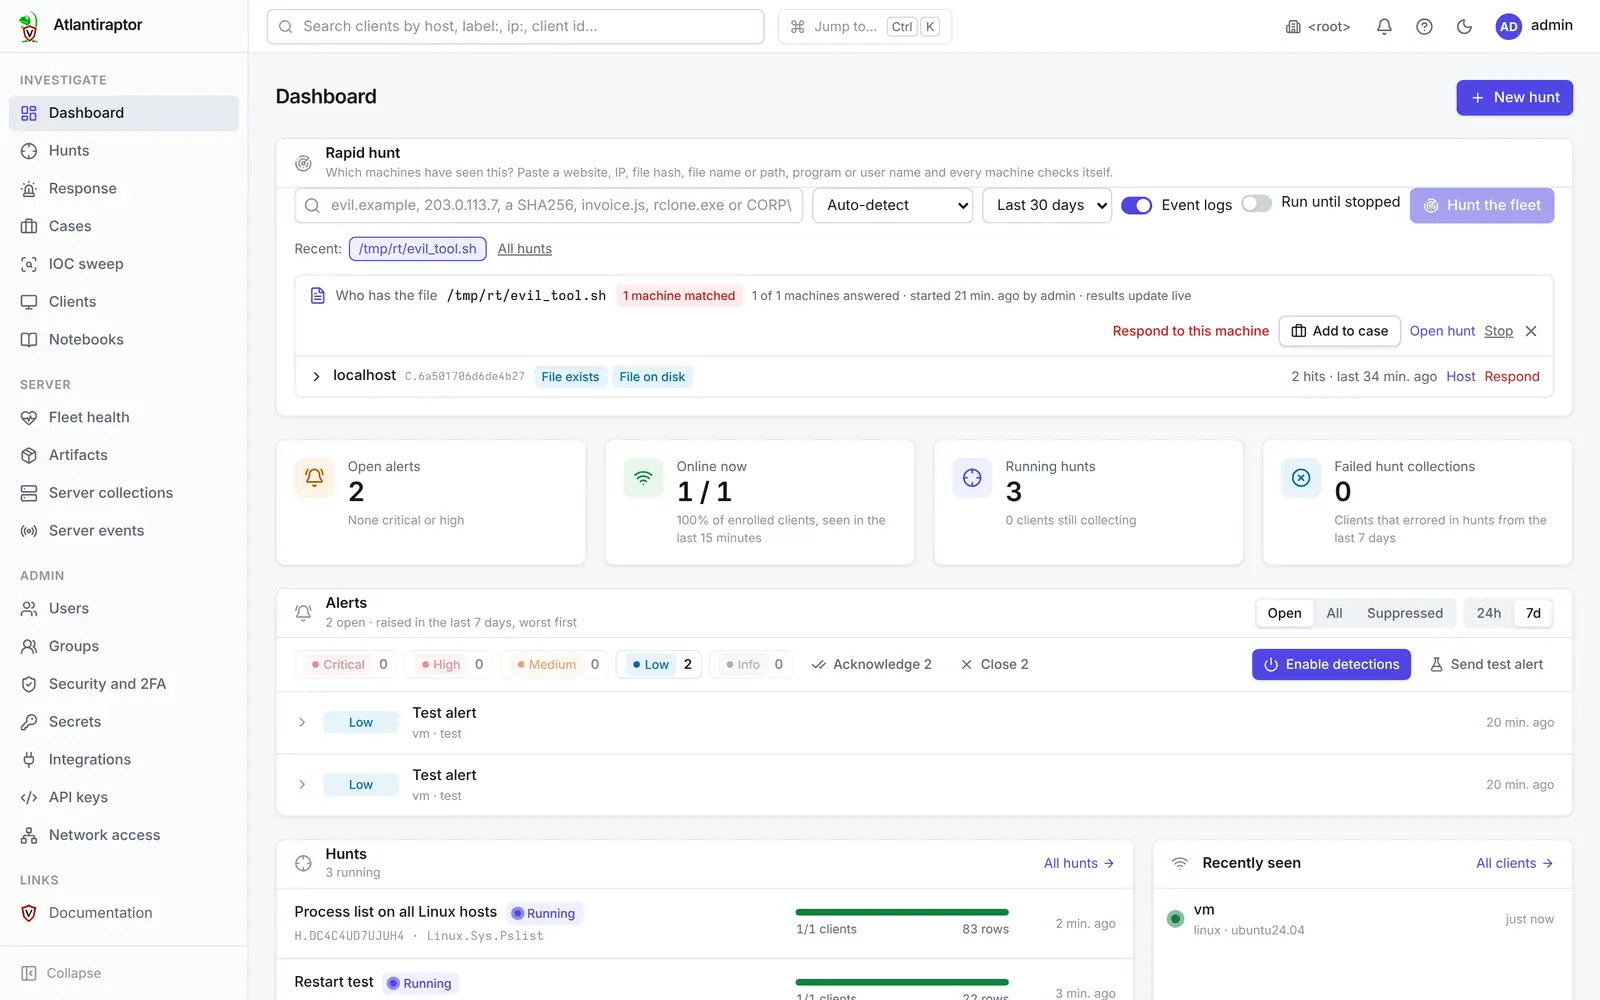
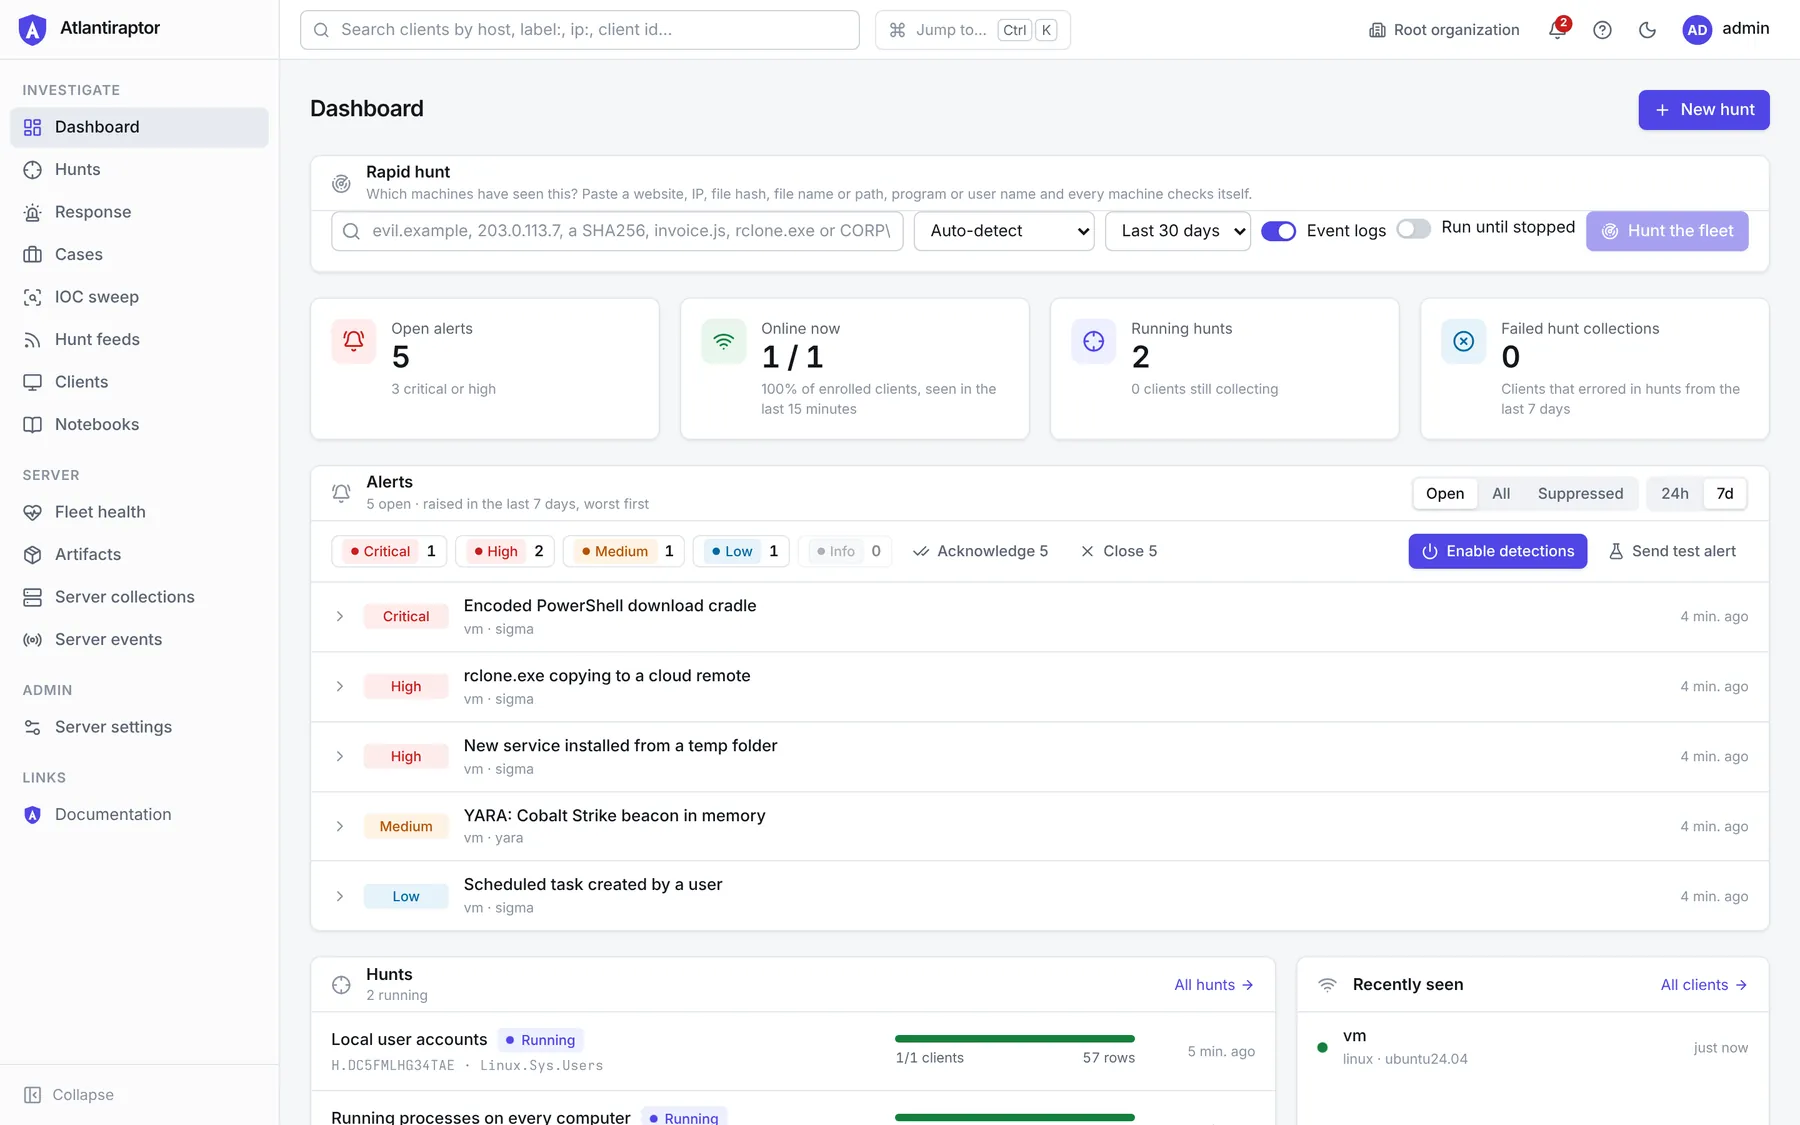
Docs: retake the screenshots on the current console; add Server settings and Messages pages
Retakes the dashboard, alerts, Rapid hunt, hunts, host, files, collections,
shell, client events, deploy and secrets shots from a lab server running
the new console, and adds shots of Server settings, Users, Organizations,
Security and 2FA, Audit log, Address and certificate, Server updates,
Agent updates, Integrations, Fleet health, Clients and Messages.

Claude-Session: https://claude.ai/code/session_01UCxmkEbfmu11YsdGW1YStH

diff --git a/docs/site/content/console.md b/docs/site/content/console.md
@@ -17,7 +17,7 @@ arrow at its bottom to get more room.
 | **Investigate** | [Dashboard](/console/dashboard/), [Hunts](/hunts/), [Response](/console/response/), [Cases](/console/cases/), [IOC sweep](/console/ioc-sweep/), [Hunt feeds](/hunts/feeds/), [Clients](/clients/), [Notebooks](/notebooks/) |
 | **Client** (appears once you pick a client) | [Overview](/clients/host/), [Files](/clients/files/), [Collections](/clients/collections/), [Client events](/clients/monitoring/) |
 | **Server** | [Fleet health](/console/fleet-health/), [Artifacts](/artifacts/managing/), Server collections, Server events |
-| **Server settings** (administrators) | [Users](/users/), [Groups](/users/#groups), [Organizations](/deployment/orgs/), [Security and 2FA](/deployment/authentication/#two-factor-sign-in), [Secrets](/secrets/), [Integrations](/server-automation/integrations/), [API keys](/server-automation/api-keys/), [Network access](/deployment/network-access/), [Server updates](/deployment/updates/), [Address and certificate](/deployment/tls/#your-own-address-from-the-console), [Deploy a client](/deployment/clients/) |
+| **Admin** (administrators) | [Server settings](/console/server-settings/): [Users](/users/), [Groups](/users/#groups), [Organizations](/deployment/orgs/), [Security and 2FA](/deployment/authentication/#two-factor-sign-in), [Secrets](/secrets/), [Integrations](/server-automation/integrations/), [API keys](/server-automation/api-keys/), [Network access](/deployment/network-access/), [Server updates](/deployment/updates/), [Address and certificate](/deployment/tls/#your-own-address-from-the-console), [Deploy a client](/deployment/clients/), [Audit log](/deployment/audit-log/) |
 | **Links** | Extra links configured in `GUI.links`, such as this documentation |
 
 What you see depends on your [roles](/users/): pages you cannot use are
@@ -27,7 +27,8 @@ hidden or read-only.
 
 - the **client search** box: type a host name, `label:`, `ip:` or a client
   ID (see [Finding clients](/clients/#searching-for-clients)),
-- **notifications** of finished collections, exports and hunts,
+- the **bell** with your [messages](/console/messages/): security advisories,
+  announcements and messages from other users,
 - the **documentation search** (**?** icon), which searches these pages
   from inside the console,
 - the **account menu**: switch organization, settings, password and
@@ -51,7 +52,7 @@ Every results table in the console works the same way:
 
 - Click a column header to sort, and use the filter box to show only
   matching rows.
-- Hover over a value and open its menu to **pivot**. Depending on what the
+- Hover over a value and open its menu, or right-click it, to **pivot**. Depending on what the
   value is (a user, process, IP address, domain, hash or path), the menu
   offers:
   - **Rapid hunt this**: which other machines have seen it,
@@ -62,7 +63,7 @@ Every results table in the console works the same way:
   - **Look up on VirusTotal**,
   - **Copy**.
 
-![Pivot menu on a result value](/images/pivot-menu.webp "Clicking a value in a results table offers filters, Rapid hunt, IOC sweep and adding it to a case.")
+![Pivot menu on a result value](/images/pivot-menu.webp "Right-clicking a value in a results table offers filters, Rapid hunt, IOC sweep and adding it to a case.")
 
 Large result sets load in pages; scroll to the end to load the rest, or use
 the server-side search where a page offers it, so filters see every row.

diff --git a/docs/site/content/console/server-settings.md b/docs/site/content/console/server-settings.md
@@ -1,0 +1,42 @@
+---
+title: Server settings
+description: The one place for administration - users, organizations, two-factor sign-in, the audit log, the server's address, deploying clients, updates and integrations.
+---
+
+**Server settings** (under **Admin** in the sidebar) collects every
+administration page in one place. Only administrators see it. The
+overview shows each page as a card with a line on what it is for, and the
+list on the left stays open while you move between them.
+
+![Server settings overview](/images/settings-home.webp "Server settings: People and access, Server, and Integrations, with a card for each page.")
+
+## People and access
+
+| Page | What you do there |
+|---|---|
+| [Users](/users/) | Add console accounts, set their roles and the orgs they can use. |
+| [Groups](/users/#groups) | Give roles to many users at once. |
+| [Organizations](/deployment/orgs/) | Separate tenants on one server, for example one per customer, and who can use each. |
+| [Security and 2FA](/deployment/authentication/#two-factor-sign-in) | Your own two-factor sign-in and password, and the two-factor policy for everyone. |
+| [Audit log](/deployment/audit-log/) | Who did what, in a tamper-evident log kept outside the datastore. |
+
+## Server
+
+| Page | What you do there |
+|---|---|
+| [Address and certificate](/deployment/tls/#your-own-address-from-the-console) | Serve the console at your own host name, with a certificate browsers trust. |
+| [Network access](/deployment/network-access/) | Which addresses may reach the console and the API. |
+| [Deploy a client](/deployment/clients/) | Install commands, installers and the Intune package for your computers. |
+| [Server updates](/deployment/updates/) | Install new releases, and upgrade Windows agents after the server. |
+
+## Integrations
+
+| Page | What you do there |
+|---|---|
+| [Integrations](/server-automation/integrations/) | Email, Teams or Slack, Splunk or Elastic, AI triage and MISP. |
+| [API keys](/server-automation/api-keys/) | Keys for SIEM and SOAR tools that call the REST API. |
+| [Secrets](/secrets/) | Credentials that artifacts and cloud hunts use, stored encrypted. |
+
+Pages keep their own addresses, so older bookmarks such as `#/users` still
+work. Every change on these pages is recorded in the
+[audit log](/deployment/audit-log/).

diff --git a/docs/site/content/console/messages.md b/docs/site/content/console/messages.md
@@ -1,0 +1,46 @@
+---
+title: Messages
+description: The messages inbox - security advisories, announcements and messages from other users, with read and dismissed state.
+---
+
+The bell in the top bar shows how many messages you have not read yet.
+Click it to see the latest ones, or choose **Open messages** to go to the
+full inbox.
+
+![The messages inbox](/images/messages.webp "Messages: an announcement, a security advisory and a message from another user, with the selected one open on the right.")
+
+## What arrives here
+
+| Tab | What it holds |
+|---|---|
+| **Security** | [Security advisories](/security/advisories/#notices) for Atlantiraptor. Your server checks the advisory feed and tells every user once. |
+| **Announcements** | Notices from the server and its artifacts, such as a new release. |
+| **From users** | Messages another user or an artifact sent you. |
+
+**All** shows everything and **Unread** only what you have not opened.
+The search box finds messages by text, CVE number or sender.
+
+The same message delivered several times, for example one advisory sent
+once per organization, shows once with a count.
+
+## Reading and tidying up
+
+- Click a message to read all of it. It is then marked as read.
+- **Mark unread** puts it back in the unread count.
+- **Dismiss** hides it. Turn on **Show dismissed** to see it again.
+- **Show original message** shows exactly what was delivered.
+- **Mark all read** clears the unread count; **Delete all** removes every
+  message you have.
+
+Links in a message open only if they are ordinary web addresses. Any user
+can message any other user, so treat links from users with the same care
+as links in an email.
+
+Each user sees only their own messages. Read and dismissed marks are kept
+on the server, so they follow you to another browser.
+
+## Sending a message
+
+Artifacts and notebooks can message a user with the `user_message()` VQL
+function, for example to tell an analyst that a long collection finished.
+See the [VQL reference](/reference/vql/user_message/).

diff --git a/docs/site/content/deployment/updates.md b/docs/site/content/deployment/updates.md
@@ -10,6 +10,8 @@ the [GitHub releases](https://github.com/atlantsecurity/atlantiraptor/releases)
 of Atlantiraptor, and when a newer signed release is available they install
 it and restart. The settings and status are on **Server settings > Server updates**.
 
+![Server updates page](/images/server-updates.webp "Server settings > Server updates: the running version, the latest release and the automatic update settings.")
+
 ### What is checked before an install
 
 The server installs a release only if all of these hold:
@@ -87,6 +89,8 @@ tested.
 After the server updates itself, it brings Windows agents to the same
 release. The status and settings are on **Admin > Server updates > Agent
 updates**.
+
+![Agent updates settings](/images/agent-updates.webp "The Agent updates card: the target version, the opt-out label, the canary group and how long it runs first.")
 
 1. The server downloads the Windows binary of that release from GitHub,
    checks it against the release's `SHA256SUMS` and the Atlant Security

diff --git a/docs/site/content/tasks/add-computers.md b/docs/site/content/tasks/add-computers.md
@@ -18,7 +18,7 @@ install commands with the configuration already inside.
    **PowerShell run as administrator**, on Linux and macOS into a terminal
    (it uses `sudo`).
 
-![Deploy a client](/images/deploy-a-client.webp "Clients > Deploy a client: the server address, the client configuration and a ready-to-copy install command for each system.")
+![Deploy a client](/images/deploy-a-client.webp "Server settings > Deploy a client: the server address, the client configuration and a ready-to-copy install command for each system.")
 
 On Windows the command downloads the signed `Atlantiraptor.exe` from
 GitHub, checks that Atlant Security signed it, and installs it as the

diff --git a/docs/site/content/deployment/intune.md b/docs/site/content/deployment/intune.md
@@ -8,7 +8,7 @@ The console builds everything Intune needs: a Win32 app package
 configuration, and a detection script. You don't need Microsoft's Win32
 Content Prep Tool.
 
-![Deploy a client, Microsoft Intune tab](/images/deploy-intune.webp "Clients > Deploy a client > Microsoft Intune: download the package and the detection script, then copy the commands into Intune.")
+![Deploy a client, Microsoft Intune tab](/images/deploy-intune.webp "Server settings > Deploy a client > Microsoft Intune: download the package and the detection script, then copy the commands into Intune.")
 
 ## 1. Download the package
 

diff --git a/docs/site/content/deployment/audit-log.md b/docs/site/content/deployment/audit-log.md
@@ -100,6 +100,8 @@ The page lists entries newest first. Filter by text anywhere in the entry,
 user, action, organization ID and time, and click an entry to see all its
 details and its hash. **Export** downloads the filtered entries:
 
+![The Audit log page](/images/audit-log.webp "Server settings > Audit log: the integrity check, the signed checkpoints and the newest entries, with filters.")
+
 - **JSON lines**: the lines exactly as stored. An unfiltered export of all
   days can be checked with `audit verify`.
 - **CSV**: for spreadsheets (cells that start with `=`, `+`, `-` or `@` are

diff --git a/docs/site/content/secrets.md b/docs/site/content/secrets.md
@@ -23,7 +23,7 @@ Open **Secrets** (server administrators), pick a type, and **Add secret**:
 4. In the root organization, **Visible to all organizations** shares the
    secret with every org.
 
-![Secrets page](/images/secrets.webp "An AWS S3 Creds secret, who it is shared with, and the fields its type accepts.")
+![Secrets page](/images/secrets.webp "The Secrets page: the secret types on the left; each type lists its stored secrets and the fields it accepts.")
 
 Values can't be read back. **Replace values** overwrites them, and
 **Delete secret** removes it.

diff --git a/docs/site/content/deployment/tls.md b/docs/site/content/deployment/tls.md
@@ -34,6 +34,8 @@ without a port, such as `https://console.example.com`. Nothing in the
 configuration file changes, agents are not affected, and the console's
 original address keeps working.
 
+![Address and certificate page](/images/address-certificate.webp "Server settings > Address and certificate: the host name, the certificate source and the HTTP redirect.")
+
 1. Create a DNS record for the name, pointing to the server.
 2. Open **Server settings > Address and certificate**.
 3. Enter the host name. Keep port **443** so the address needs no port.

diff --git a/docs/site/content/clients/collections.md b/docs/site/content/clients/collections.md
@@ -33,6 +33,8 @@ The collections list shows each collection's artifacts, state, creator,
 start time and how much it returned. A running collection updates live.
 Open one to see:
 
+![A collection's results](/images/collection-results.webp "A client's collections on the left; the selected one shows its rows, files, logs and duration, with Download zip.")
+
 - **Overview**: the request (artifacts, parameters, resources), state,
   duration, rows and bytes uploaded, and any error.
 - **Results**: one table per artifact source. Sort, filter and pivot on

diff --git a/docs/site/content/deployment/orgs.md b/docs/site/content/deployment/orgs.md
@@ -20,6 +20,8 @@ Open **Server settings > Organizations** (also reachable from the org switcher i
 top bar: **Manage organizations…**). It lists every org with its ID and
 number of users, and lets you:
 
+![The Organizations page](/images/organizations.webp "Server settings > Organizations: the root organization and a customer org, with their users.")
+
 - **Create** an org with **New organization**. It gets an ID such as
   `O1a2b3` and you become its administrator, so it appears in your org
   switcher straight away.

diff --git a/docs/site/content/server-automation/integrations.md b/docs/site/content/server-automation/integrations.md
@@ -15,6 +15,8 @@ shows whether it is **Configured**, its settings, and buttons to **Save**,
 **Test** it, or **Turn off**. **Send test alert** puts one harmless alert
 in the queue so you can check every forwarder end to end.
 
+![The Integrations page](/images/integrations.webp "Server settings > Integrations: AI triage, chat webhooks, email, Splunk or Elastic, and MISP.")
+
 Credentials are never entered on the card itself: each integration uses a
 [secret](/secrets/) you create first (the card links to **Secrets**).
 
